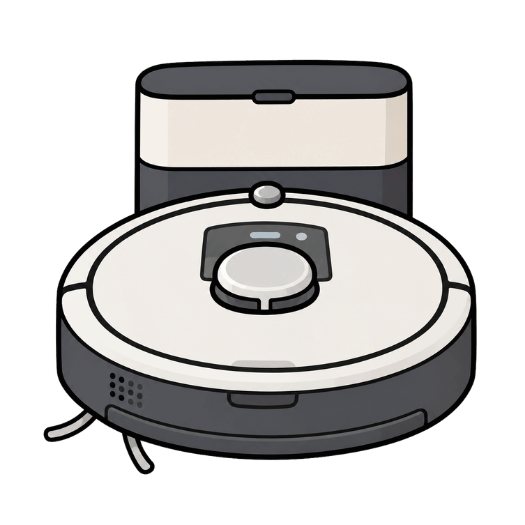
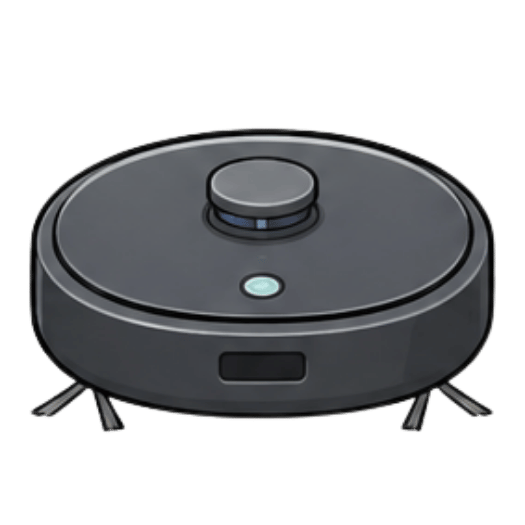
Add files via upload

diff --git a/factory.html b/factory.html
@@ -621,7 +621,7 @@
       { id: 'fiber', icon: '🌐', name: '超高速光通信ケーブル', imgFile: 'seihin_keburu.png', materials: { 'Er': 12, 'Y': 10 }, reward: 3300, minLevel: 14, desc: 'エルビウム×12, イットリウム×10' },
       { id: 'sensor', icon: '📡', name: '高精度圧力センサー', imgFile: 'seihin_sensa.png', materials: { 'Sm': 10, 'Yb': 10 }, reward: 3500, minLevel: 14, desc: 'サマリウム×10, イッテルビウム×10' },
 
-      { id: 'quantum_comm', icon: '🌌', name: '量子暗号通信ユニット', imgFile: 'seihin_keburu.png', materials: { 'Er': 15, 'Yb': 15, 'Y': 15 }, reward: 6000, minLevel: 16, desc: 'エルビウム×15, イッテルビウム×15, イットリウム×15' },
+      { id: 'quantum_comm', icon: '🌌', name: '量子暗号通信ユニット', imgFile: 'seihin_ango.png', materials: { 'Er': 15, 'Yb': 15, 'Y': 15 }, reward: 6000, minLevel: 16, desc: 'エルビウム×15, イッテルビウム×15, イットリウム×15' },
       { id: 'mri', icon: '🩺', name: '病院のMRI造影剤', imgFile: 'seihin_mri.png', materials: { 'Gd': 20 }, reward: 5000, minLevel: 18, desc: 'ガドリニウム×20' },
       { id: 'control_rod', icon: '⚛', name: '原子炉制御棒', imgFile: 'seihin_seigyo.png', materials: { 'Gd': 30 }, reward: 6500, minLevel: 20, desc: 'ガドリニウム×30' },
       { id: 'magnetic_machine', icon: '🌀', name: '超強力・磁力マシーン', imgFile: 'seihin_mashin.png', materials: { 'Nd': 20, 'Dy': 20 }, reward: 7500, minLevel: 22, desc: 'ネオジム×20, ジスプロシウム×20' },
